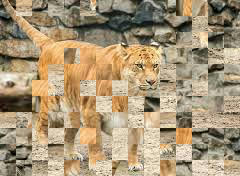
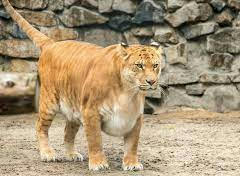
Changed from hsv to rgb comparison (7/7 works)

diff --git a/puzzle/src/main.rs b/puzzle/src/main.rs
@@ -8,7 +8,7 @@ mod piece;
 use std::collections::{HashMap};
 use std::env;
 use std::path::Path;
-use image::{DynamicImage, GenericImage, GenericImageView};
+use image::{DynamicImage, GenericImage, GenericImageView };
 use crate::piece::Piece;
 
 
@@ -62,10 +62,8 @@ fn main() {
         println!("{}", piece);
     }
 
-
     //Resolve unassigned
     loop{
-        println!("GOT IN");
         let mut  unassigned_pieces: Vec<Piece> = pieces
             .iter()
             .filter(|piece| piece.x.is_none() && piece.y.is_none()).cloned()
@@ -106,16 +104,13 @@ fn main() {
             let mut min_diff = u32::MAX;
             let mut min_index = 0;
             for piece in &unassigned_pieces{
-                let diff = comparing::compare_pieces_hsv(&piece.image, &original_piece);
+                let diff = comparing::compare_pieces_rgb(&piece.image, &original_piece);
                 if diff < min_diff{
                     min_diff = diff;
                     min_index = piece.index;
                 }
             }
 
-            if min_diff == u32::MAX{
-                continue;
-            }
 
             let winner_piece = &mut pieces[min_index as usize];
             winner_piece.x = Some(coordinate.0);
@@ -273,16 +268,13 @@ fn index_pieces(solved_image: &DynamicImage, pieces: &mut Vec<Piece>, usual_widt
             let mut min_diff = u32::MAX;
             let mut min_idx = 0;
             for piece in &mut *pieces{
-                let diff = comparing::compare_pieces_hsv(&original_piece, &piece.image);
+                let diff = comparing::compare_pieces_rgb(&original_piece, &piece.image);
                 if diff < min_diff{
                     min_diff = diff;
                     min_idx = piece.index;
                 }
             }
 
-            if min_diff == u32::MAX{
-                continue;
-            }
 
             //Assign coordinates of OG piece to best piece candidate
             let winner_piece = &mut pieces[min_idx as usize];
@@ -319,7 +311,7 @@ fn index_pieces(solved_image: &DynamicImage, pieces: &mut Vec<Piece>, usual_widt
         let mut min_diff = u32::MAX;
         let mut min_idx = 0;
         for piece in &mut *pieces{
-            let diff = comparing::compare_pieces_hsv(&original_piece, &piece.image);
+            let diff = comparing::compare_pieces_rgb(&original_piece, &piece.image);
             if diff < min_diff{
                 min_diff = diff;
                 min_idx = piece.index;
@@ -355,7 +347,7 @@ fn index_pieces(solved_image: &DynamicImage, pieces: &mut Vec<Piece>, usual_widt
         let mut min_diff = u32::MAX;
         let mut min_idx = 0;
         for piece in &mut *pieces{
-            let diff = comparing::compare_pieces_hsv(&original_piece, &piece.image);
+            let diff = comparing::compare_pieces_rgb(&original_piece, &piece.image);
             if diff < min_diff{
                 min_diff = diff;
                 min_idx = piece.index;
@@ -385,7 +377,7 @@ fn index_pieces(solved_image: &DynamicImage, pieces: &mut Vec<Piece>, usual_widt
     let mut min_diff = u32::MAX;
     let mut min_idx = 0;
     for piece in &mut *pieces{
-        let diff = comparing::compare_pieces_hsv(&original_piece, &piece.image);
+        let diff = comparing::compare_pieces_rgb(&original_piece, &piece.image);
         if diff < min_diff{
             min_diff = diff;
             min_idx = piece.index;

diff --git a/puzzle/src/comparing.rs b/puzzle/src/comparing.rs
@@ -183,6 +183,10 @@ pub fn compare_left_edge_hue(img1: &DynamicImage, img2: &DynamicImage) -> u32{
 pub fn compare_pieces_rgb(img1: &DynamicImage, img2: &DynamicImage) -> u32{
     let mut difference = 0;
 
+    if img1.height() != img2.height() || img1.width() != img2.width(){
+        return u32::MAX;
+    }
+
     for x in 0..img1.width(){
         for  y in 0..img1.height(){
             let pixel1 = img1.get_pixel(x, y);
